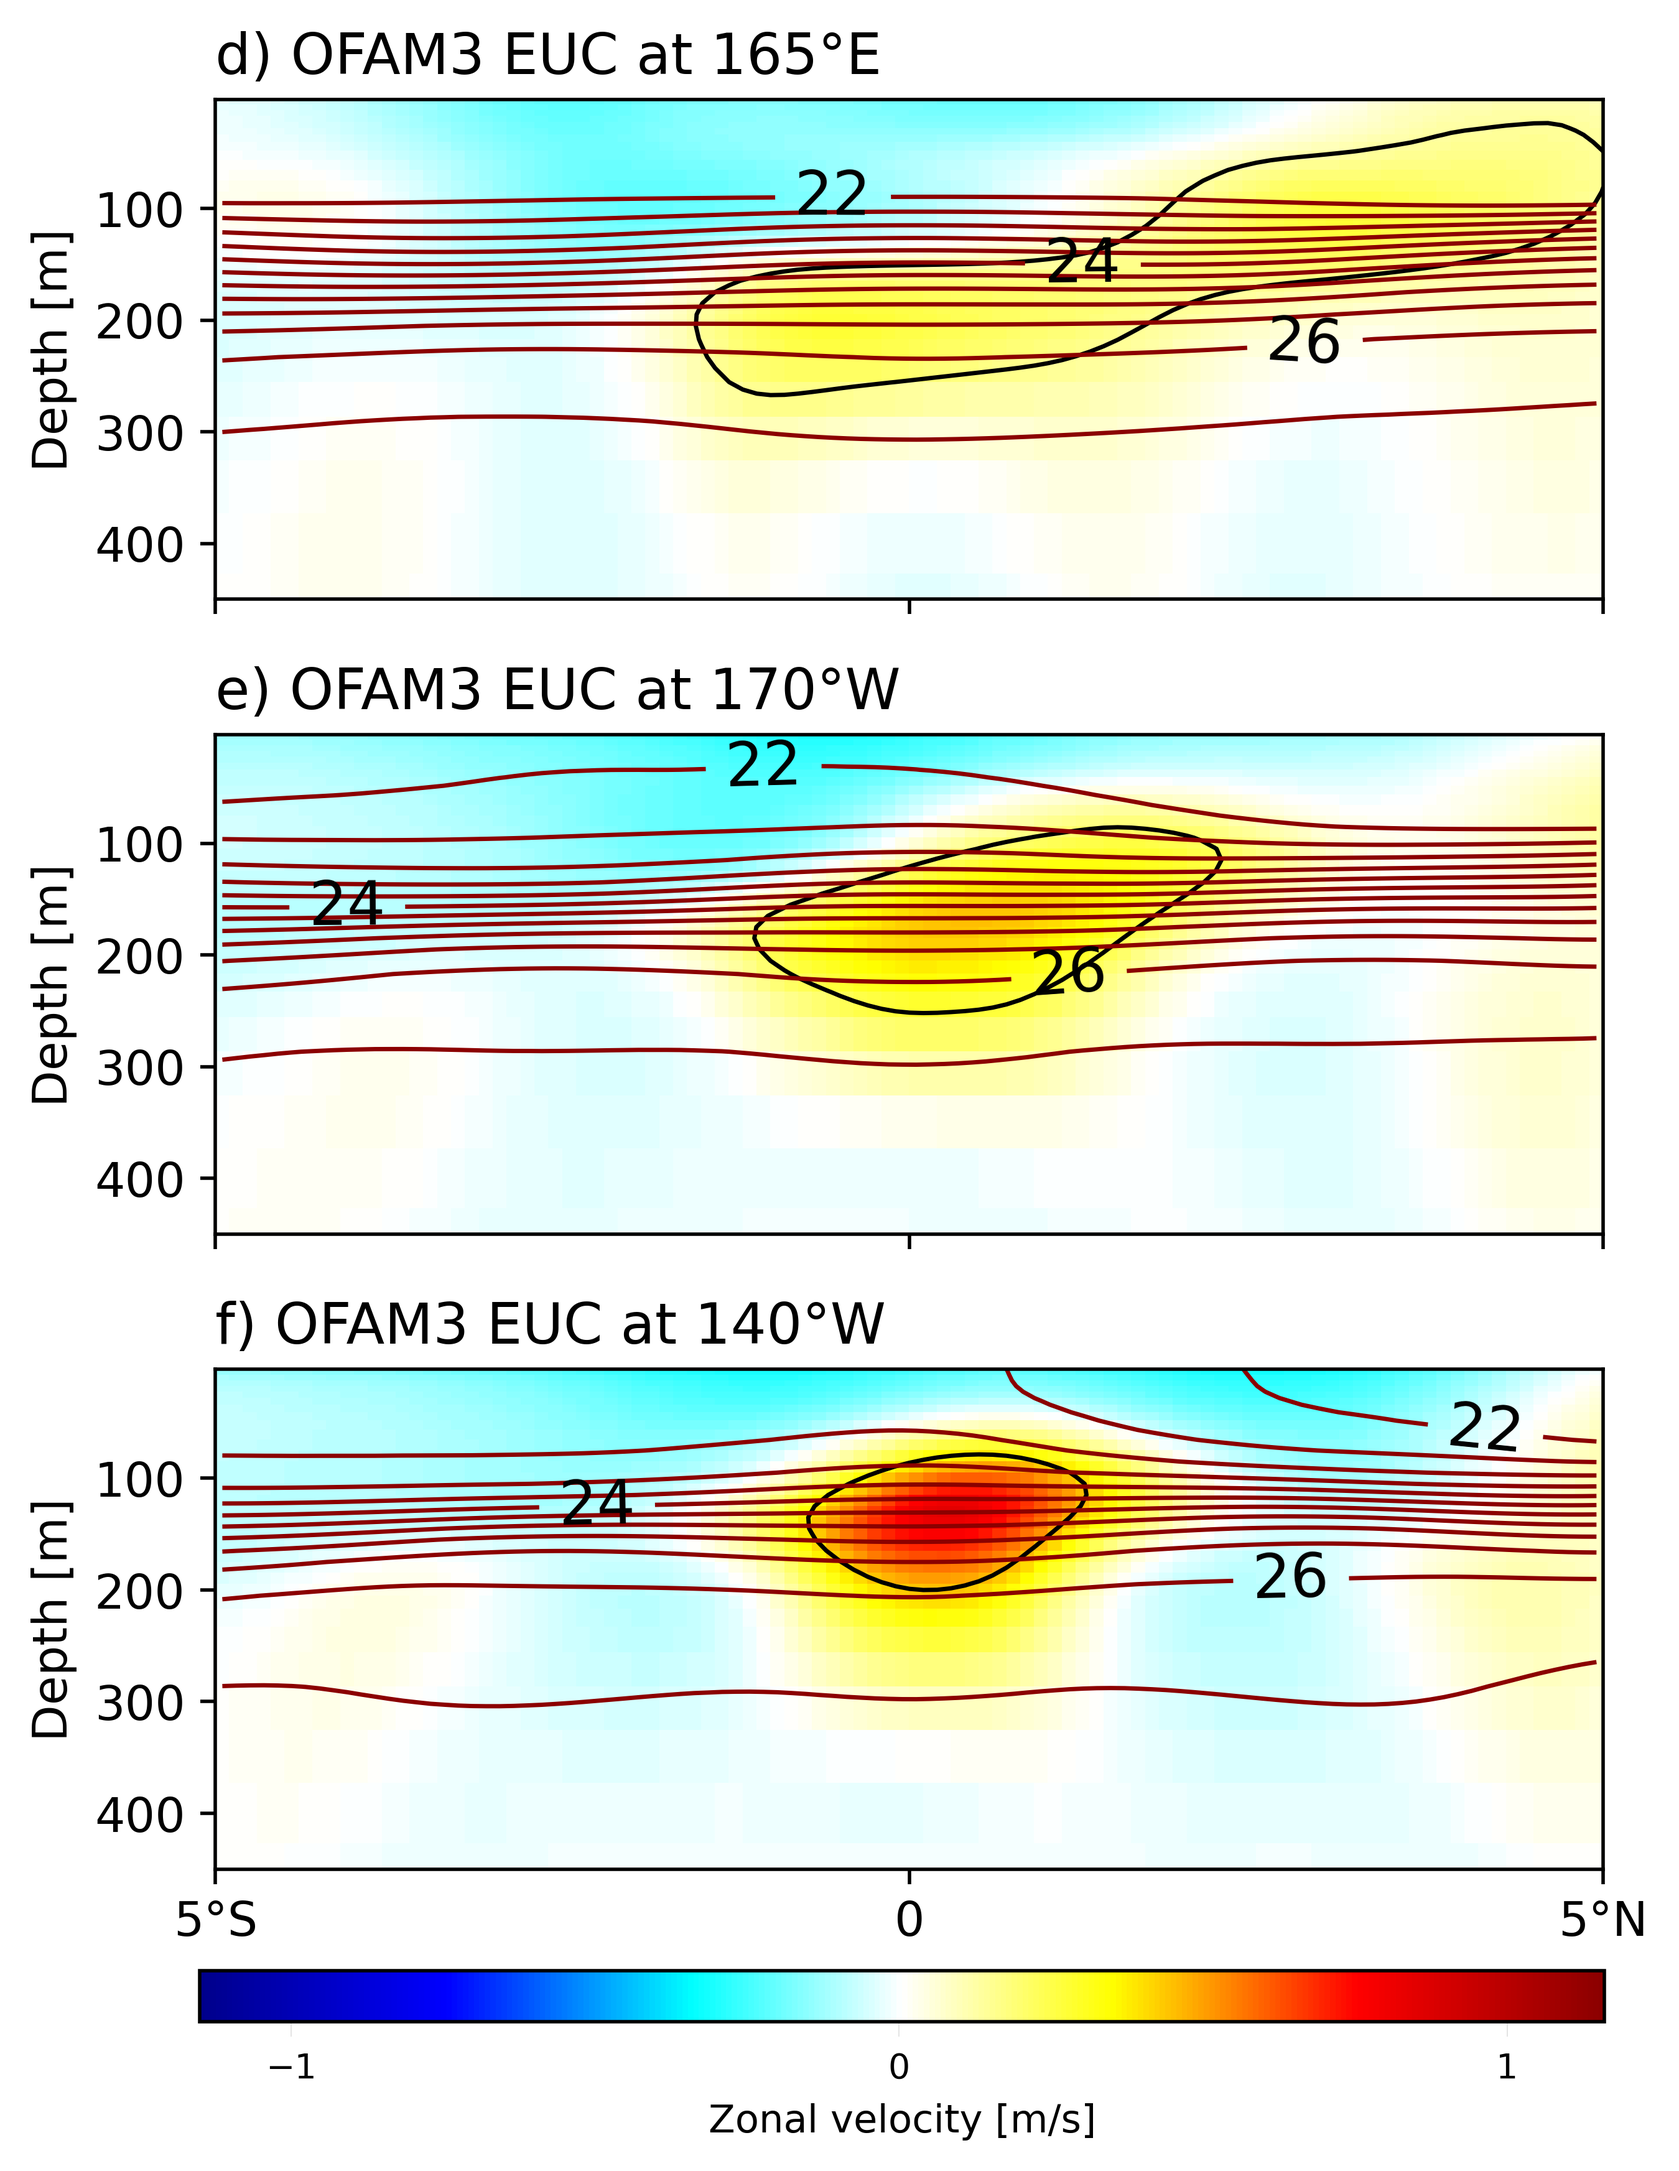
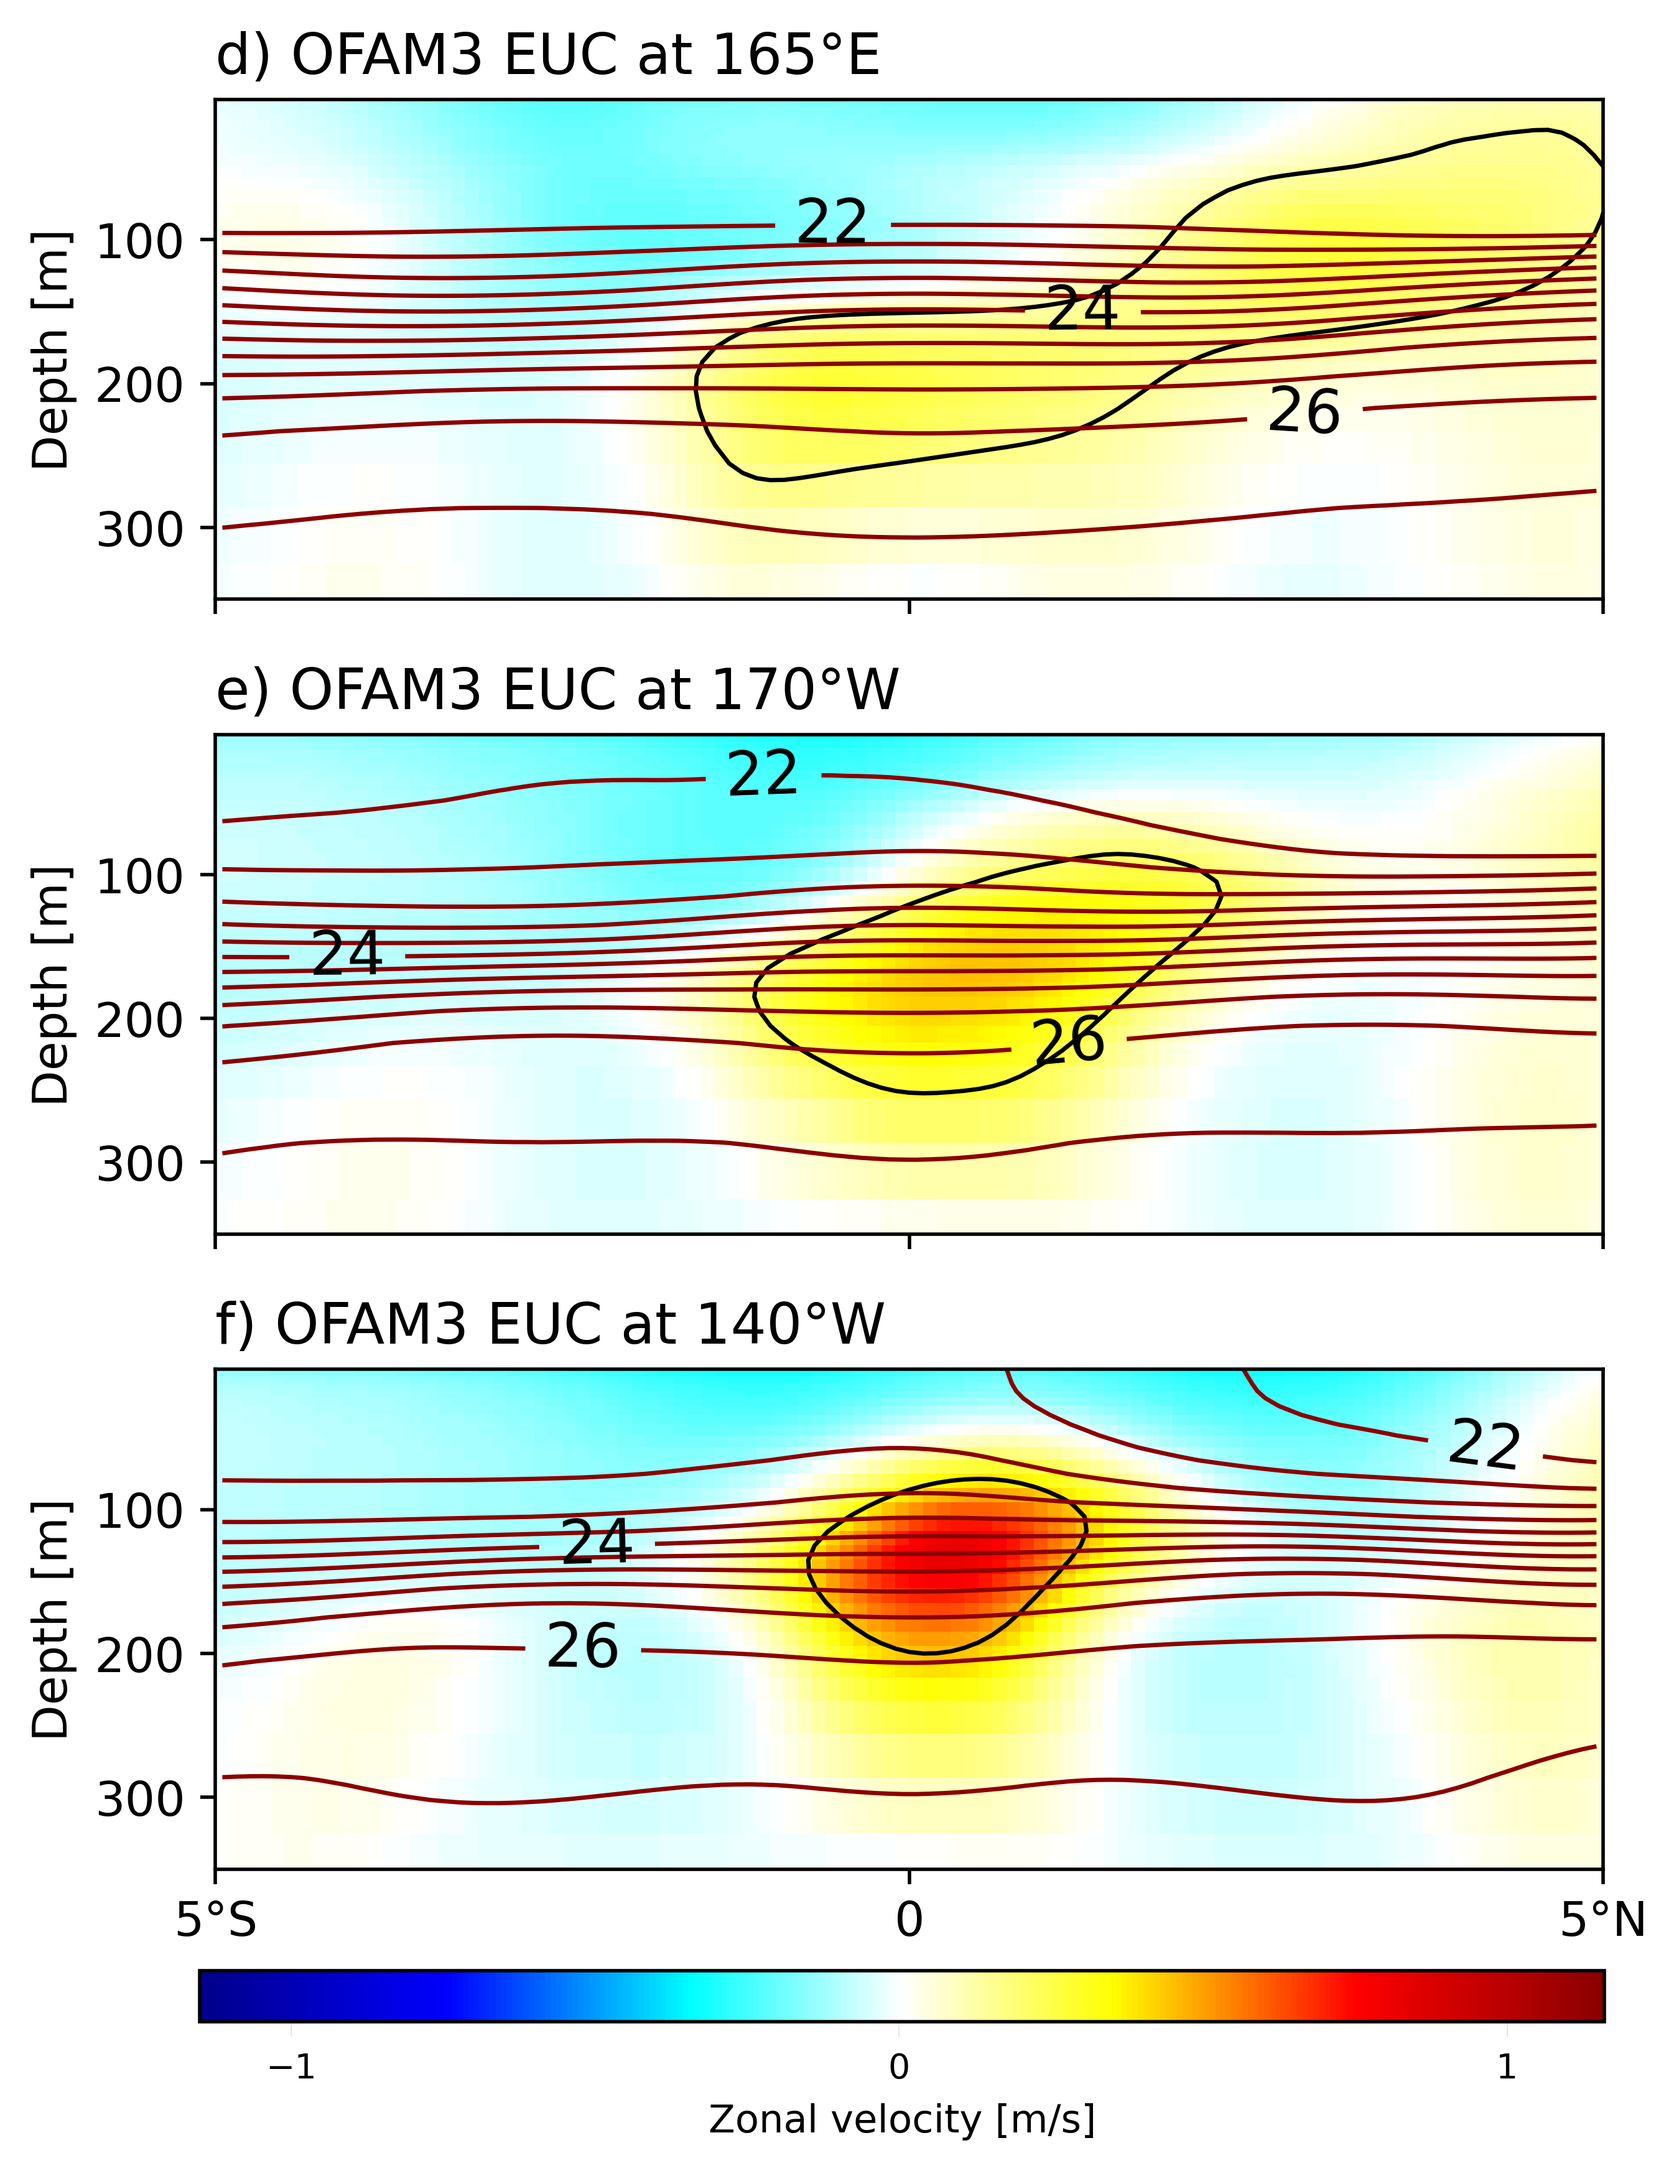
EUC climo 1985-2000

diff --git a/scripts/valid_plot_EUC_climo_profile.py b/scripts/valid_plot_EUC_climo_profile.py
@@ -99,7 +99,7 @@ def plot_ofam_EUC_profile(du, exp=0, vmax=1.2, dt=None, ds=None,
                        fmt='%1.0f', colors='k')
 
         # Plot ascending depths with ticks every 100 m.
-        ax.set_ylim(450, 2.5)
+        ax.set_ylim(350, 2.5)
         # ax.set_yticks([100, 200, 300])
 
         # Define latitude tick labels that are either North or South.
